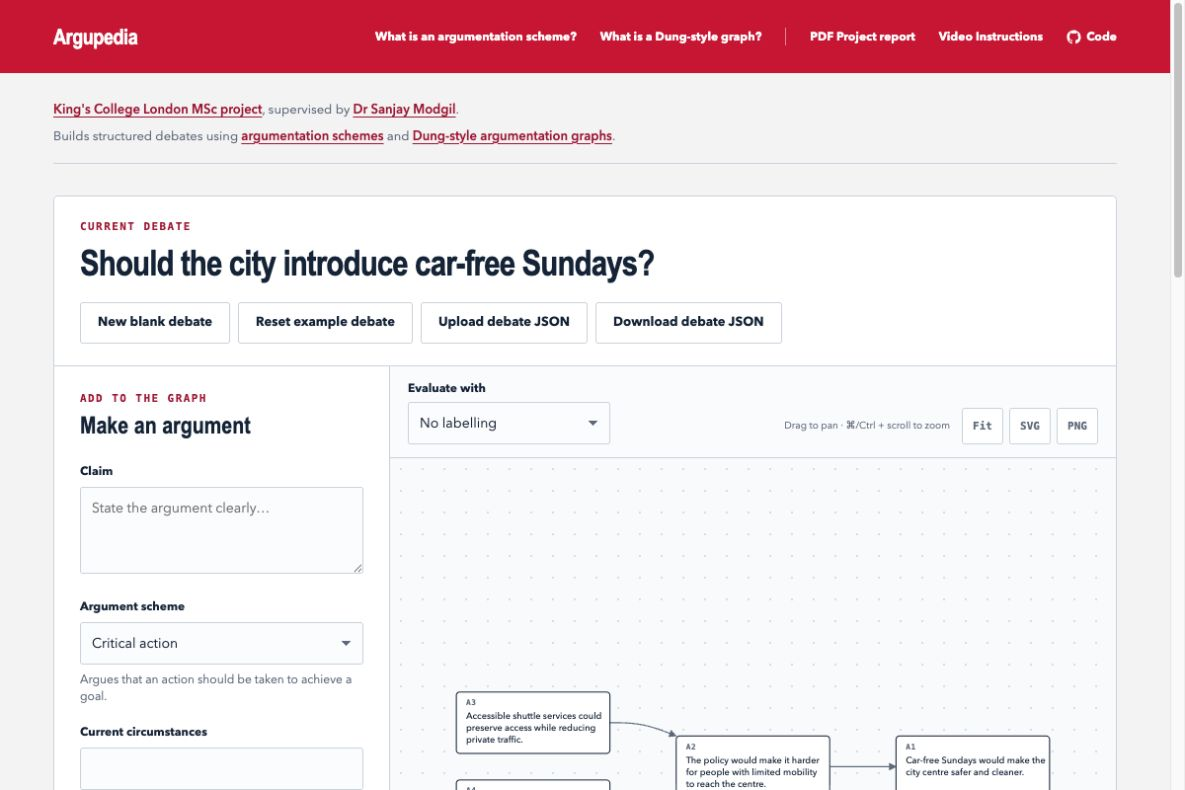
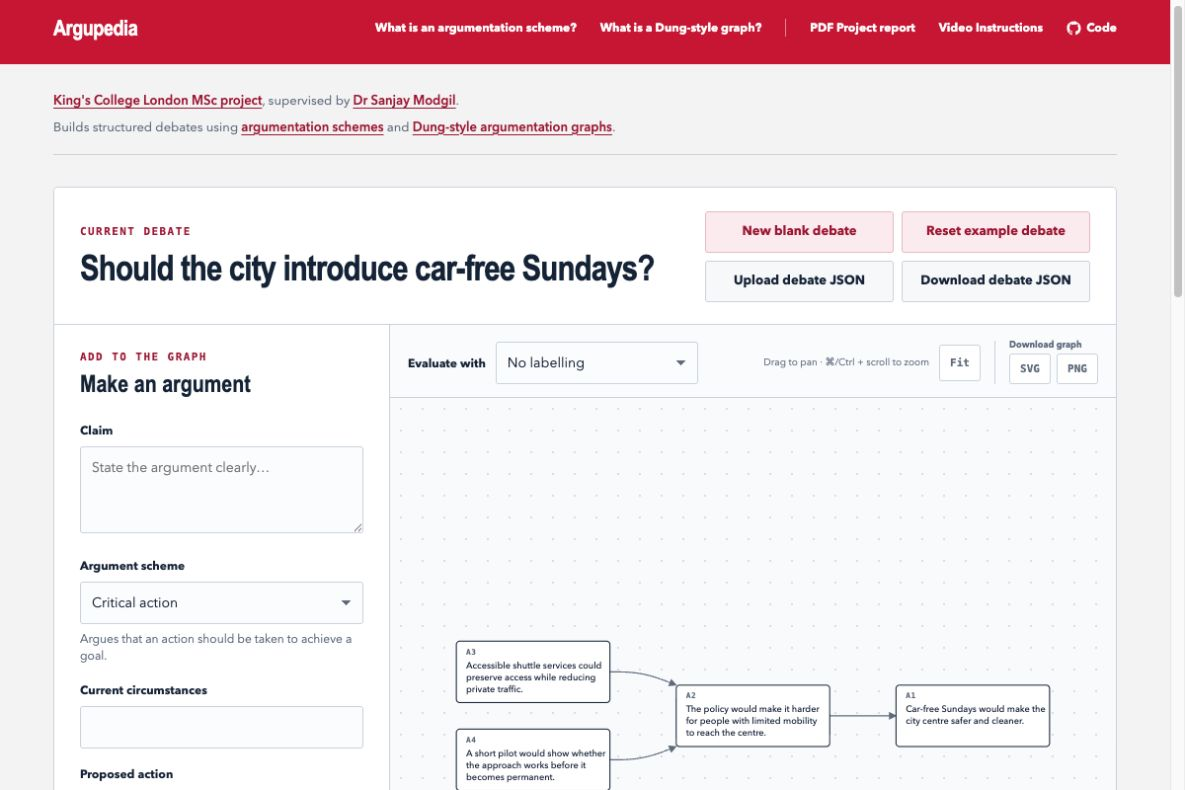
Clarify debate and graph controls

diff --git a/src/styles.css b/src/styles.css
@@ -44,6 +44,10 @@ a:hover { color: var(--red); }
 .button-primary:hover { color: var(--white); background: var(--red-dark); }
 .button-quiet { color: var(--ink); background: var(--white); border-color: var(--line); }
 .button-quiet:hover { color: var(--red-dark); border-color: var(--red); }
+.button-replace { color: var(--red-dark); background: #fbebee; border-color: #e7b7c0; }
+.button-replace:hover { color: var(--red-dark); background: #f7dce2; border-color: var(--red); }
+.button-file { color: var(--ink); background: #f7f8fa; border-color: var(--line); }
+.button-file:hover { color: var(--red-dark); background: var(--white); border-color: var(--red); }
 .button-full { width: 100%; margin-top: 8px; }
 
 .workspace { padding: 28px clamp(18px, 4.5vw, 70px) 48px; max-width: 1680px; margin: auto; }
@@ -52,11 +56,12 @@ a:hover { color: var(--red); }
 .project-context p + p { margin-top: 7px; }
 .project-context a { font-weight: 600; }
 .debate-console { background: var(--white); border: 1px solid var(--line); border-radius: 5px; overflow: hidden; }
-.workspace-header { display: flex; align-items: flex-start; flex-direction: column; gap: 18px; padding: 24px 26px 22px; border-bottom: 1px solid var(--line); background: var(--white); }
+.workspace-header { display: flex; align-items: center; justify-content: space-between; gap: 32px; padding: 24px 26px 22px; border-bottom: 1px solid var(--line); background: var(--white); }
 .workspace-header .section-label { margin-bottom: 10px; }
 #workspace-title { min-width: 260px; margin: 0; font: 750 clamp(27px, 3vw, 42px)/1.12 var(--display); letter-spacing: -.025em; border-bottom: 1px dashed transparent; }
 #workspace-title:hover, #workspace-title:focus { border-bottom-color: var(--line); }
-.file-actions { display: flex; flex-wrap: wrap; justify-content: flex-start; gap: 8px; }
+.file-actions { display: grid; grid-template-columns: repeat(2, minmax(155px, 1fr)); gap: 8px; width: min(100%, 390px); margin-left: auto; }
+.file-actions .button { width: 100%; }
 .workspace-grid { display: grid; grid-template-columns: minmax(265px, 340px) minmax(0, 1fr); gap: 0; align-items: stretch; }
 .composer, .graph-panel, .argument-list-section { background: var(--white); }
 .composer { padding: 26px; }
@@ -74,10 +79,16 @@ select { appearance: none; background-image: linear-gradient(45deg,transparent 5
 .graph-panel { min-height: 690px; display: grid; grid-template-rows: auto minmax(510px, 1fr) auto; overflow: hidden; }
 .graph-toolbar { min-height: 74px; padding: 13px 18px; display: flex; align-items: end; gap: 14px; border-bottom: 1px solid var(--line); background: #fafbfd; }
 .graph-toolbar label { margin: 0 0 5px; }
-.semantics-control { width: 205px; }
+.semantics-control { width: auto; display: flex; align-items: center; gap: 10px; }
+.semantics-control label { margin: 0; white-space: nowrap; }
+.semantics-control select { width: 205px; }
 .extension-control { width: 170px; }
-.graph-actions { display: flex; gap: 6px; margin-left: auto; }
-.graph-hint { align-self: center; margin-right: 6px; color: var(--muted); font-size: 10px; white-space: nowrap; }
+.graph-actions { display: flex; align-items: center; gap: 14px; margin-left: auto; }
+.graph-view-controls { display: flex; align-items: center; gap: 6px; }
+.graph-export-controls { display: grid; grid-template-columns: repeat(2, 42px); gap: 4px 6px; padding-left: 14px; border-left: 1px solid var(--line); }
+.graph-export-controls > span { grid-column: 1 / -1; color: var(--muted); font-size: 9px; font-weight: 650; line-height: 1; white-space: nowrap; }
+.graph-export-controls .icon-button { height: 31px; }
+.graph-hint { align-self: center; margin-right: 4px; color: var(--muted); font-size: 10px; white-space: nowrap; }
 .icon-button { height: 37px; min-width: 42px; color: var(--muted); background: var(--white); border: 1px solid var(--line); border-radius: 3px; cursor: pointer; font: 700 11px/1 var(--mono); }
 .icon-button:hover { color: var(--red-dark); border-color: var(--red); }
 .graph-stage { position: relative; min-height: 510px; overflow: hidden; background-color: #f8fafc; background-image: radial-gradient(circle, #d8dee7 1px, transparent 1.1px); background-size: 22px 22px; }
@@ -121,7 +132,7 @@ select { appearance: none; background-image: linear-gradient(45deg,transparent 5
 .concept-notes article { padding: 28px 0; border-top: 1px solid var(--line); scroll-margin-top: 18px; }
 .concept-notes article:last-child { border-bottom: 1px solid var(--line); }
 .concept-notes h3 { margin: 0 0 11px; font: 700 20px/1.25 var(--display); }
-.concept-notes p { margin: 0; max-width: 88ch; color: var(--muted); font-size: 13px; }
+.concept-notes p { margin: 0; color: var(--muted); font-size: 13px; }
 .concept-notes p + p { margin-top: 9px; }
 .concept-notes a { font-weight: 600; }
 
@@ -131,6 +142,8 @@ select { appearance: none; background-image: linear-gradient(45deg,transparent 5
 
 @media (max-width: 920px) {
   .concept-nav { display: none !important; }
+  .workspace-header { align-items: flex-start; flex-direction: column; }
+  .file-actions { margin-left: 0; }
   .workspace-grid { grid-template-columns: 1fr; }
   .composer { order: 2; }
   .graph-panel { order: 1; min-height: 600px; }
@@ -143,14 +156,15 @@ select { appearance: none; background-image: linear-gradient(45deg,transparent 5
   .project-nav a:nth-child(2) { display: none; }
   .workspace { padding-top: 20px; }
   .project-context { margin-bottom: 24px; font-size: 12px; }
-  .workspace-header { align-items: flex-start; flex-direction: column; }
   .file-actions { display: grid; grid-template-columns: repeat(2, minmax(0, 1fr)); width: 100%; }
   .file-actions .button { width: 100%; padding: 9px 8px; font-size: 11px; }
   .graph-panel { min-height: 550px; grid-template-rows: auto minmax(420px, 1fr) auto; }
   .graph-toolbar { align-items: stretch; flex-wrap: wrap; }
-  .semantics-control { width: calc(65% - 8px); }
+  .semantics-control { width: 100%; }
+  .semantics-control select { width: auto; min-width: 0; flex: 1; }
   .extension-control { width: calc(35% - 8px); }
   .graph-actions { width: 100%; margin-left: 0; }
+  .graph-view-controls { margin-right: auto; }
   .graph-hint { display: none; }
   .graph-stage, #debate-graph { min-height: 420px; }
   .legend { gap: 10px; flex-wrap: wrap; }

diff --git a/index.html b/index.html
@@ -47,10 +47,10 @@
               <h2 id="workspace-title" contenteditable="true" spellcheck="true" aria-label="Debate title"></h2>
             </div>
             <div class="file-actions" aria-label="Debate file controls">
-              <button class="button button-quiet" id="new-debate" type="button" title="Clear the workspace and start a blank debate">New blank debate</button>
-              <button class="button button-quiet" id="reset-debate" type="button" title="Restore the original example debate">Reset example debate</button>
-              <button class="button button-quiet" id="import-debate" type="button" title="Open an editable debate from a JSON file">Upload debate JSON</button>
-              <button class="button button-quiet" id="export-debate" type="button" title="Save this editable debate as a JSON file">Download debate JSON</button>
+              <button class="button button-replace" id="new-debate" type="button" title="Clear the workspace and start a blank debate">New blank debate</button>
+              <button class="button button-replace" id="reset-debate" type="button" title="Restore the original example debate">Reset example debate</button>
+              <button class="button button-file" id="import-debate" type="button" title="Open an editable debate from a JSON file">Upload debate JSON</button>
+              <button class="button button-file" id="export-debate" type="button" title="Save this editable debate as a JSON file">Download debate JSON</button>
               <input id="debate-file" type="file" accept="application/json,.json" hidden />
             </div>
           </div>
@@ -103,10 +103,15 @@
                 <select id="extension"></select>
               </div>
               <div class="graph-actions">
-                <span class="graph-hint">Drag to pan · ⌘/Ctrl + scroll to zoom</span>
-                <button class="icon-button" id="fit-graph" type="button" title="Fit graph" aria-label="Fit graph">Fit</button>
-                <button class="icon-button" id="export-svg" type="button" title="Download graph as SVG">SVG</button>
-                <button class="icon-button" id="export-png" type="button" title="Download graph as PNG">PNG</button>
+                <div class="graph-view-controls">
+                  <span class="graph-hint">Drag to pan · ⌘/Ctrl + scroll to zoom</span>
+                  <button class="icon-button" id="fit-graph" type="button" title="Fit graph" aria-label="Fit graph">Fit</button>
+                </div>
+                <div class="graph-export-controls" aria-label="Download graph">
+                  <span>Download graph</span>
+                  <button class="icon-button" id="export-svg" type="button" title="Download graph as SVG">SVG</button>
+                  <button class="icon-button" id="export-png" type="button" title="Download graph as PNG">PNG</button>
+                </div>
               </div>
             </div>
 
